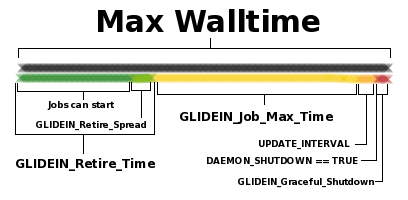
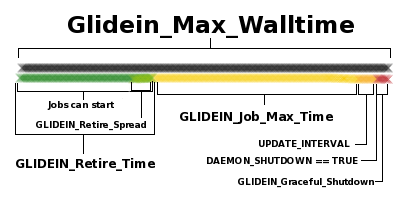
Documentation 3182: Consistent describing glidein lifetime & new idle diag

Changed region(s): [[0.1471, 0.03, 0.8824, 0.21], [0.3235, 0.45, 0.3824, 0.48]]

diff --git a/doc/factory/custom_vars.html b/doc/factory/custom_vars.html
@@ -1149,6 +1149,8 @@ simultaneously), jobs can start on the glidein pilot.
 During the yellow period, START will evauluate to FALSE, 
 so no new jobs will start.  However,
 already running jobs will continue to run for GLIDEIN_Job_Max_Time.  
+(Note that the glideins will end during this period if the job ends.
+They will not idle afterwards since no new jobs can start anyway).
 </li>
 <li>
 Once this period is done, the DAEMON_SHUTDOWN variable will be true.</li>
@@ -1162,13 +1164,38 @@ this expression periodically.
 Once DAEMON_SHUTDOWN is true, condor gives a short grace period of
 GLIDEIN_Graceful_Shutdown before forcefully terminating everything and 
 shutting down.  All of these periods are totalled and calculated to fit
-within MAX_WALLTIME if specified.
+within GLIDEIN_MAX_WALLTIME if specified.
 </li>
 </ul>
 </p>
 <p>Note that if a job ends early in the green period, a new job will start.
 If a job ends after this period, then the glidein will shut down and end
-early.</p>
+early.  This can be seen in the example below with two jobs below:
+</p>
+<img src="../images/idle_times.jpg" />
+<p>
+<ul>
+<li><font color="f8bb44"><i>Orange</i></font>:
+A glidein first starts up.</li>
+<li><font color="f8d844"><i>Yellow</i></font>:
+After starting up, the glidein will wait for Glidein_Max_Idle
+for its initial matching.  If it is Idle for longer than this,
+it will assume no jobs are available and will shutdown.</li>
+<li><font color="499946"><i>Green</i></font>:
+A job runs (subject to the maximum limits in the previous diagram).
+<li><font color="f8d844"><i>Yellow</i></font>:
+Once a job runs, it will wait for Glidein_Max_Tail for another job.
+</li>
+<li><font color="499946"><i>Green</i></font>:
+Another matching job runs.</li>
+<li><font color="f8d844"><i>Yellow</i></font>:
+Once the job finishes, it will wait for Glidein_Max_Tail for another job.
+If cannot find one, it will shutdown.
+</li>
+</ul>
+Note that the idle limits are cumulative (it counds total idle time), so that
+the total idle times in all the yellow zones above will be counted towards
+GLIDEIN_Max_Idle and GLIDEIN_Max_Tail.
 </div>
 <div class="footer">
 Banner image by
